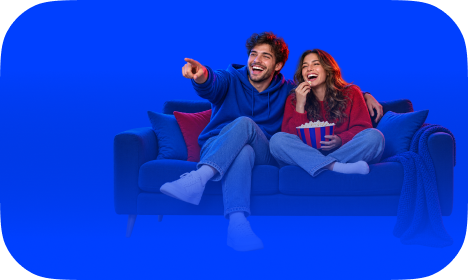
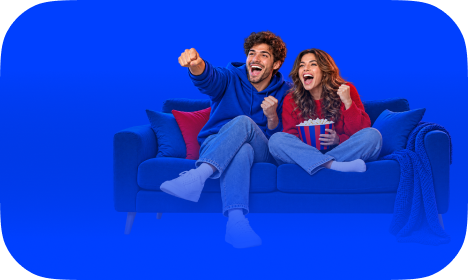
Update VK Video fourth screen artwork and layout

diff --git a/src/styles/global.css b/src/styles/global.css
@@ -1155,6 +1155,31 @@ button {
   max-width: 280px;
 }
 
+.screen--vk-flow-question-2 .vk-flow-grid {
+  top: 549px;
+  grid-template-columns: repeat(2, 468px);
+  column-gap: 44px;
+  row-gap: 40px;
+}
+
+.screen--vk-flow-question-2 .vk-flow-card:nth-child(2) { top: -6px; }
+.screen--vk-flow-question-2 .vk-flow-card:nth-child(3),
+.screen--vk-flow-question-2 .vk-flow-card:nth-child(4) { top: 0; }
+
+.screen--vk-flow-question-2 .vk-flow-card span,
+.screen--vk-answer-reveal-2 .vk-flow-card span {
+  bottom: 37px;
+  left: 46px;
+  font-size: 34px;
+  line-height: normal;
+}
+
+.screen--vk-flow-question-2 .vk-flow-card:first-child span,
+.screen--vk-answer-reveal-2 .vk-flow-card--position-1 span {
+  bottom: 43px;
+  left: 50px;
+}
+
 .vk-flow-back {
   position: absolute;
   top: 1120px;
@@ -1196,6 +1221,11 @@ button {
 .vk-flow-card--position-2 { left: 553px; }
 .vk-flow-card--position-3 { top: 860px; }
 .vk-flow-card--position-4 { top: 860px; left: 553px; }
+
+.screen--vk-answer-reveal-2 .vk-flow-card--position-1 { top: 549px; }
+.screen--vk-answer-reveal-2 .vk-flow-card--position-2 { top: 543px; left: 557px; }
+.screen--vk-answer-reveal-2 .vk-flow-card--position-3 { top: 869px; }
+.screen--vk-answer-reveal-2 .vk-flow-card--position-4 { top: 869px; left: 557px; }
 
 .vk-metadata {
   position: absolute;

diff --git a/src/components/VkFlowScreen.tsx b/src/components/VkFlowScreen.tsx
@@ -47,7 +47,7 @@ export function VkFlowQuestion({ index, onSelect, onBack }: {
   const question = vkQuestions[index]
 
   return (
-    <section className="screen screen--vk-flow-question" aria-labelledby="vk-question-title">
+    <section className={`screen screen--vk-flow-question${index === 1 ? ' screen--vk-flow-question-2' : ''}`} aria-labelledby="vk-question-title">
       <VkFlowLogo />
       <h1 id="vk-question-title">{question.prompt}</h1>
       <div className="vk-flow-grid">
@@ -75,7 +75,7 @@ export function VkAnswerReveal({ questionIndex, optionIndex, label, metadata }: 
   metadata: string[]
 }) {
   return (
-    <section className="screen screen--vk-answer-reveal" aria-label="Метаданные ответа">
+    <section className={`screen screen--vk-answer-reveal${questionIndex === 1 ? ' screen--vk-answer-reveal-2' : ''}`} aria-label="Метаданные ответа">
       <VkFlowLogo />
       <div
         className={`vk-flow-card vk-flow-card--selected vk-flow-card--position-${optionIndex + 1}`}

diff --git a/docs/CHANGELOG.md b/docs/CHANGELOG.md
@@ -1,5 +1,7 @@
 # Путь к текущему состоянию
 
+2026-10-02: первый вариант ответа на четвёртом экране (второй вопрос VK Видео) заменён новым экспортом `экспорты/новое/4 экран/вариант 1(новый).png`. Расположение карточек и подписи этого экрана дополнительно сверены с Figma: размер карточек 468 × 280, шрифт VK Sans Display Bold 34 px, координаты индивидуальных карточек. Согласованный позднее текст «Чтобы был драйв и азарт» сохранён вместо устаревшего «Чтобы смеяться» в макете. Теги, веса и переходы не менялись.
+
 2026-10-02: новая версия экранов VK Видео подготовлена к публикации в GitHub Pages; исходные экспорты и рабочий бриф остаются вне коммита.
 
 2026-10-02: локально обновлены оставшиеся экраны VK Видео по Figma и экспортам папок 3–10: карточки вопросов, фото, камера, силуэт и финал. Для каждого ответа на три вопроса добавлен промежуточный показ только выбранной карточки и анимированных тегов; после «Да, давайте» теги тоже показываются, а пропуск фото остаётся без тегов. События и веса публикуются в момент выбора и не дублируются анимацией. Выбор М/Ж сохранён в стиле новых экранов, выдвижные условия работают по-прежнему. По уточнению пользователя кадр с фотографией девушки не включён. Изменения пока только локальные.
